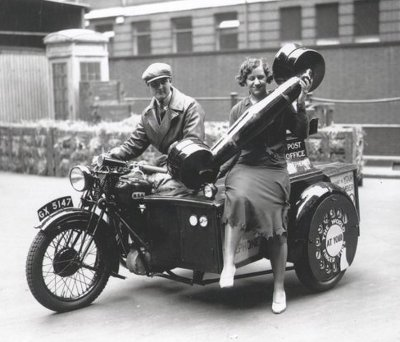
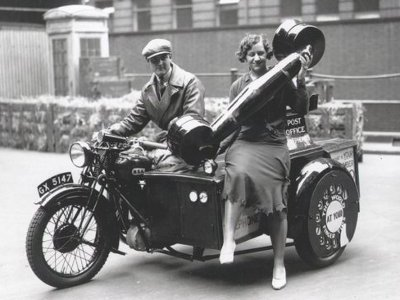
modified img for_topmenu

diff --git a/content/formsearch.htm b/content/formsearch.htm
@@ -24,7 +24,7 @@
 
 <p>
   <img id="img_01" src="img/for_topmenu/mnogomoto.jpg"
-  align="left" width="400" height="250" />
+  align="left" width="400" height="300" />
   <br/><br/>
   Для того, чтобы найти интересующие вас разделы, воспользуйтесь формой
   поиска.
